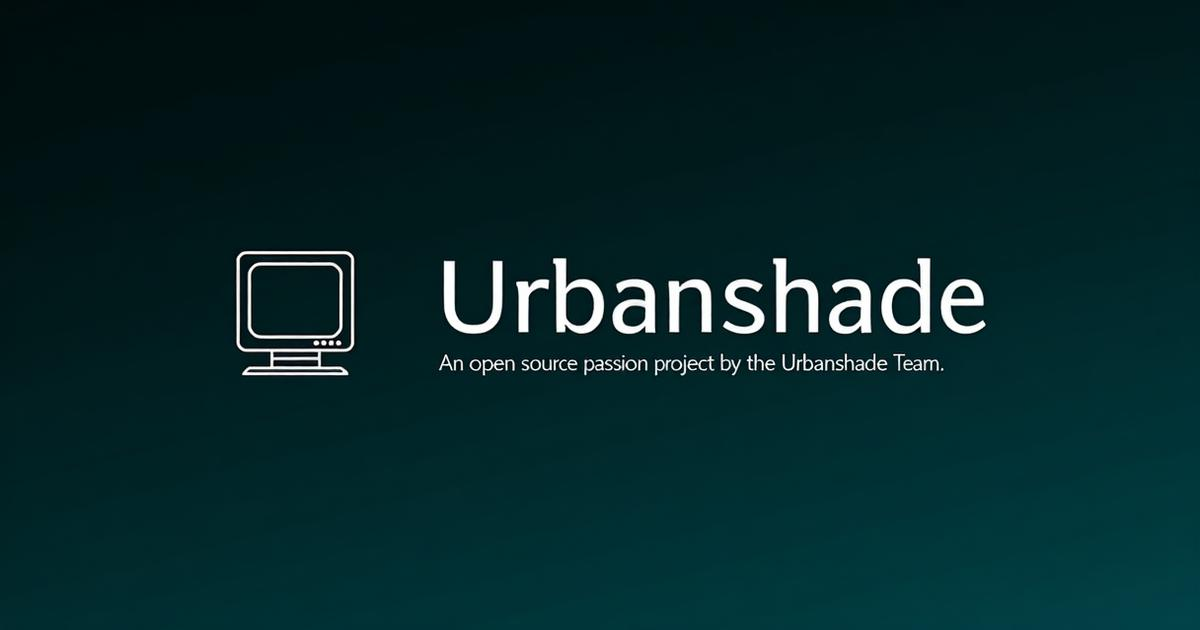
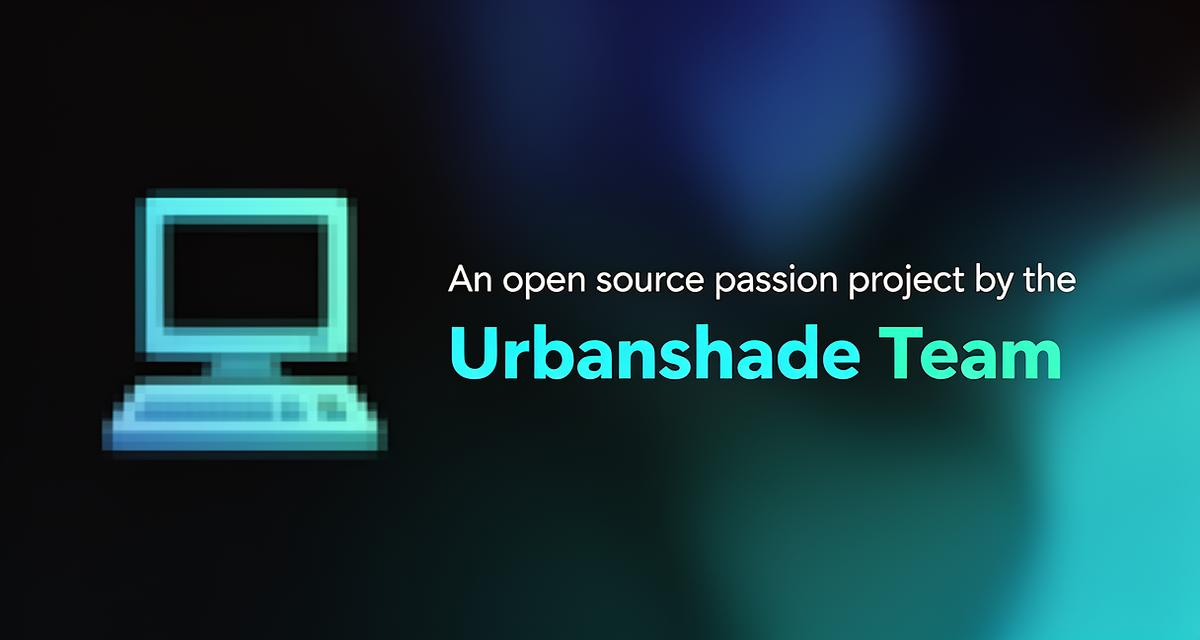
Reverted to commit beee4e472ef0e5f14ee87d85ae85351221fc1c46

diff --git a/index.html b/index.html
@@ -23,24 +23,12 @@
     <link rel="preconnect" href="https://fonts.gstatic.com" crossorigin />
     <link href="https://fonts.googleapis.com/css2?family=JetBrains+Mono:wght@300;400;600;700&display=swap" rel="stylesheet" />
     
-    <!-- Anniversary Detection Script (Jan 24-30 week around Jan 27 anniversary) -->
-    <script>
-      (function() {
-        var now = new Date();
-        var month = now.getMonth(); // 0 = January
-        var day = now.getDate();
-        var isAnniversaryWeek = month === 0 && day >= 24 && day <= 30;
-        var ogImage = isAnniversaryWeek ? 'og-image-anniversary.png' : 'og-image.png';
-        document.write('<meta property="og:image" content="https://urbanshade.lovable.app/' + ogImage + '" />');
-        document.write('<meta name="twitter:image" content="https://urbanshade.lovable.app/' + ogImage + '" />');
-      })();
-    </script>
-    
     <!-- Open Graph / Facebook -->
     <meta property="og:type" content="website" />
     <meta property="og:url" content="https://urbanshade.lovable.app/" />
     <meta property="og:title" content="Urbanshade OS — Browser-Based Operating System Simulation" />
     <meta property="og:description" content="A free browser-based operating system simulation with desktop environment, terminal, apps, and developer tools. A passion project by the Urbanshade Team." />
+    <meta property="og:image" content="https://urbanshade.lovable.app/og-image.png" />
     <meta property="og:image:width" content="1200" />
     <meta property="og:image:height" content="630" />
     <meta property="og:site_name" content="Urbanshade OS" />
@@ -51,6 +39,7 @@
     <meta name="twitter:url" content="https://urbanshade.lovable.app/" />
     <meta name="twitter:title" content="Urbanshade OS — Browser-Based Operating System Simulation" />
     <meta name="twitter:description" content="A free browser-based operating system simulation with desktop environment, terminal, apps, and developer tools. A passion project by the Urbanshade Team." />
+    <meta name="twitter:image" content="https://urbanshade.lovable.app/og-image.png" />
     
     <!-- LLM/AI Summary Reference -->
     <link rel="alternate" type="text/plain" href="/llms.txt" title="LLM Summary" />
